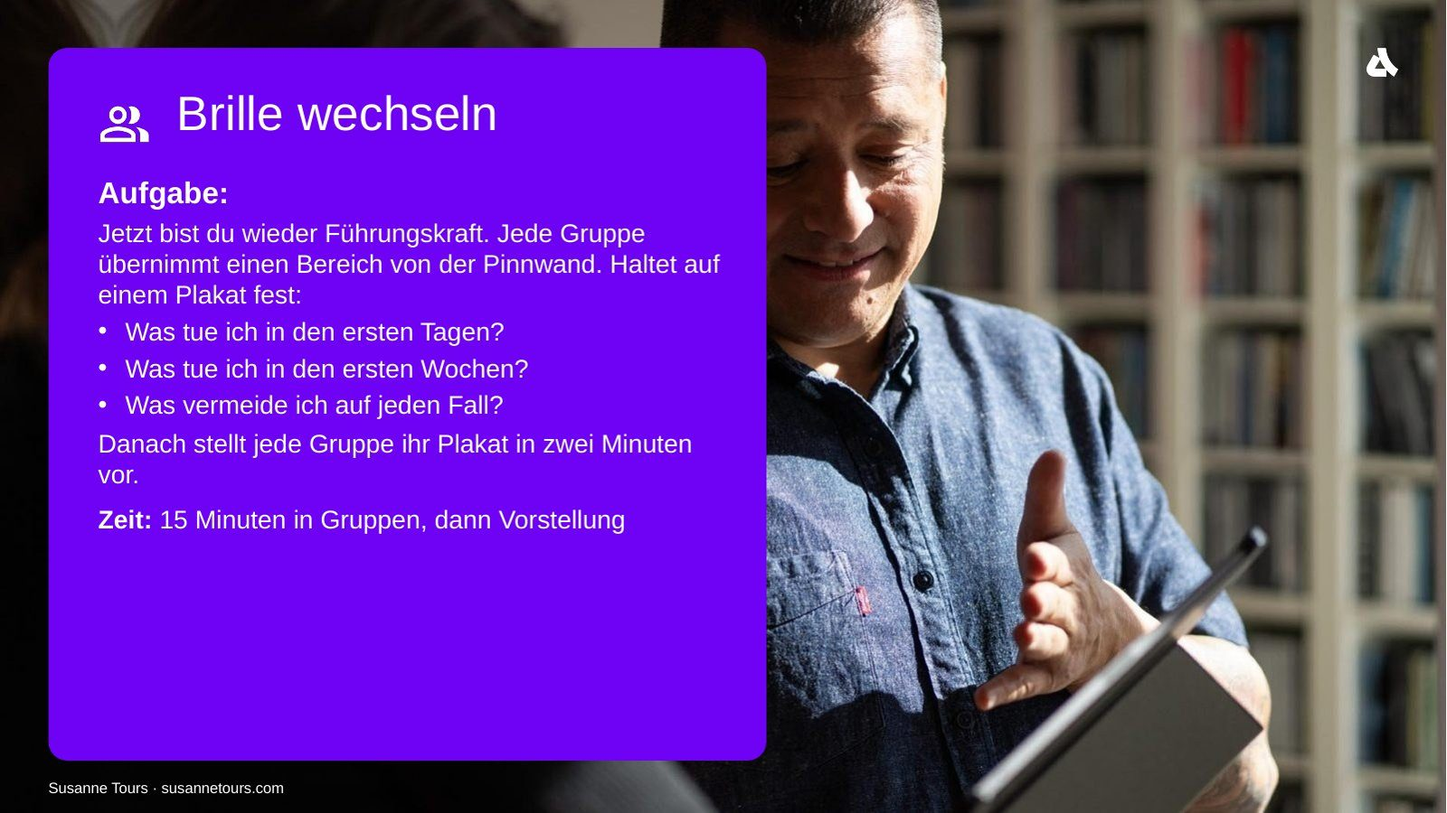
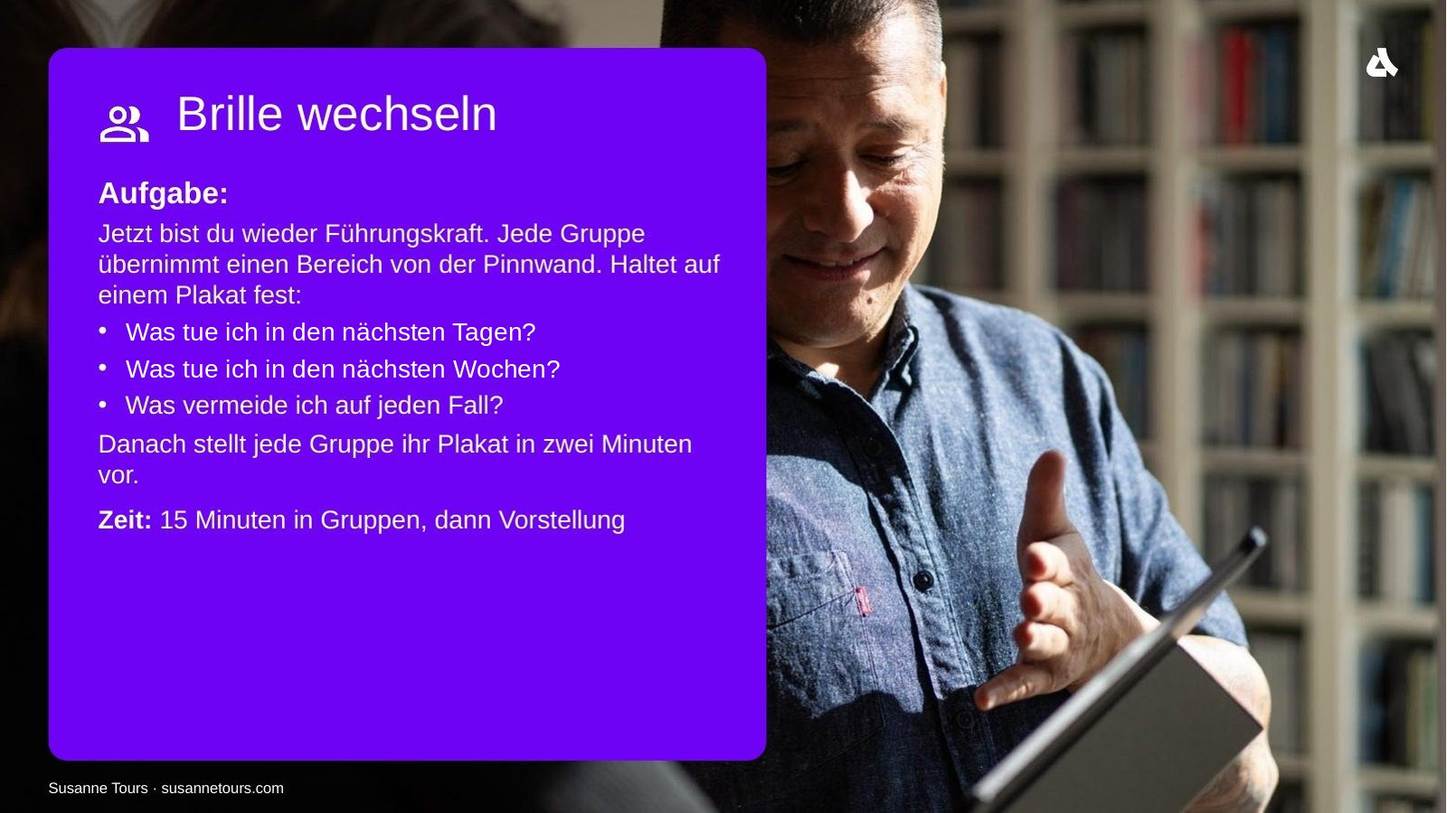
Ansprache für gemischte Gruppe: Startseite, Texte und Folien auch für erfahrene Führungskräfte; QR-Code auf Abschlussfolie zeigt auf Biebesheim

Changed region(s): [[0.0938, 0.3733, 0.4062, 0.4667]]

diff --git a/index.html b/index.html
@@ -333,7 +333,7 @@ details.more .b{padding:0 20px 16px}
   <div class="hero" style="background-image:url('bilder/start.jpg');--img:url('bilder/start.jpg')"><div class="in">
     <span class="eyebrow">Für die Gemeinde Biebesheim am Rhein</span>
     <h1>Das erste Mal führen 1</h1>
-    <p>Seit der neuen Struktur leitest du ein Team. Hier findest du alles aus unseren zwei Tagen zum Nachlesen: wie du Aufgaben klar verteilst, auch zusätzliche, was du tust, wenn jemand keine Lust darauf hat, und Sätze für die Gespräche, die dabei auf dich zukommen.</p>
+    <p>Manche von euch führen seit Jahren, andere sind gerade neu in der Rolle. Mit der neuen Struktur stellen sich für alle ähnliche Fragen. Hier findest du alles aus unseren zwei Tagen zum Nachlesen: wie du Aufgaben klar verteilst, auch zusätzliche, was du tust, wenn jemand keine Lust darauf hat, und Sätze für die Gespräche, die dabei auf dich zukommen.</p>
     <div class="acts"><a class="btn light" href="#folien">▶ Folien öffnen</a><a class="btn ghostw" href="#ablauf">◷ Unser Ablauf</a></div>
   </div></div>
 
@@ -489,9 +489,9 @@ details.more .b{padding:0 20px 16px}
     <div class="card lav"><span class="eyebrow">Die Zukunft</span><ul class="clean"><li>Was hat er mit dem Team vor?</li><li>Wird umstrukturiert?</li><li>Habe ich hier noch eine Perspektive?</li></ul></div>
   </div>
   <div class="card dk"><span class="eyebrow">Die Erkenntnis</span><h3>Sicherheit entsteht durch Klarheit</h3><p>Viele dieser Fragen kannst du beantworten, bevor sie jemand stellt. Je früher du das tust, desto schneller kommt dein Team durch die Kurve. Deshalb ist der nächste Schritt so wichtig: Erwartungen klären.</p></div>
-  <div class="task"><span class="eyebrow">Aus dem Training</span><b>Was muss ich jetzt als Führungskraft tun?</b><p style="margin:4px 0 0">Ihr habt in Gruppen gesammelt, was euch als Mitarbeitende beschäftigen würde. Dann habt ihr die Brille gewechselt: Was folgt daraus für mein Handeln als Führungskraft, in den ersten Tagen und Wochen?</p></div>
+  <div class="task"><span class="eyebrow">Aus dem Training</span><b>Was muss ich jetzt als Führungskraft tun?</b><p style="margin:4px 0 0">Ihr habt in Gruppen gesammelt, was euch als Mitarbeitende beschäftigen würde. Dann habt ihr die Brille gewechselt: Was folgt daraus für mein Handeln als Führungskraft, in den nächsten Tagen und Wochen?</p></div>
   <h3 class="sec">Wenn du aus dem eigenen Team kommst</h3>
-  <div class="card"><p>Gestern Kollegin, heute Chefin. Das ist für beide Seiten neu. Ein paar Gedanken, die helfen:</p><ul class="clean"><li><b>Sprich die neue Rolle offen an.</b> Das Team weiß, dass sich etwas verändert hat. Schweigen macht es nicht leichter.</li><li><b>Hol die Menschen herein, statt sie bloßzustellen.</b> Wer dir früher vom Chef erzählt hat, fühlt sich vielleicht unsicher. Gib allen einen neuen Start.</li><li><b>Freundschaft und Führung schließen sich nicht aus.</b> Aber manche Gespräche führst du jetzt in einer anderen Rolle. Sag dazu, in welcher.</li></ul></div>
+  <div class="card"><p>Gestern Kollegin, heute Chefin. Oder: lange vertrautes Team, jetzt neue Struktur. Beides ist für alle Seiten neu. Ein paar Gedanken, die helfen:</p><ul class="clean"><li><b>Sprich die neue Rolle offen an.</b> Das Team weiß, dass sich etwas verändert hat. Schweigen macht es nicht leichter.</li><li><b>Hol die Menschen herein, statt sie bloßzustellen.</b> Wer dir früher vom Chef erzählt hat, fühlt sich vielleicht unsicher. Gib allen einen neuen Start.</li><li><b>Freundschaft und Führung schließen sich nicht aus.</b> Aber manche Gespräche führst du jetzt in einer anderen Rolle. Sag dazu, in welcher.</li></ul></div>
   <a class="btn ghost" href="#startplan?step=3">✎ Im Startplan festhalten</a>
   <div class="unsere-fotos" data-ort="perspektive"></div>
   <div style="height:20px"></div>
@@ -499,7 +499,7 @@ details.more .b{padding:0 20px 16px}
 
 <!-- 3 ERWARTUNGEN -->
 <section class="page" id="p-erwartungen">
-  <div class="hero" style="background-image:url('bilder/erwartungen.jpg');--img:url('bilder/erwartungen.jpg')"><div class="in"><span class="eyebrow">Tag 1 · Modul 4</span><h2>Erwartungen klären</h2><p>Viele Konflikte im ersten Führungsjahr entstehen nicht aus bösem Willen, sondern aus unausgesprochenen Erwartungen.</p></div></div>
+  <div class="hero" style="background-image:url('bilder/erwartungen.jpg');--img:url('bilder/erwartungen.jpg')"><div class="in"><span class="eyebrow">Tag 1 · Modul 4</span><h2>Erwartungen klären</h2><p>Viele Konflikte in der Führung entstehen nicht aus bösem Willen, sondern aus unausgesprochenen Erwartungen.</p></div></div>
   <div class="card"><h3>Worum es geht</h3><p>Dein Team hat Erwartungen an dich. Du hast Erwartungen an dein Team. Und deine eigene Führungskraft hat Erwartungen an euch beide. Solange niemand sie ausspricht, rät jeder. Kläre sie früh, am besten in einem eigenen Gespräch.</p></div>
   <h3 class="sec">Drei Richtungen</h3>
   <div class="grid3">
@@ -635,7 +635,7 @@ details.more .b{padding:0 20px 16px}
       <div><b>Ich bin nicht okay, du bist nicht okay</b>Resignation. Es hat alles keinen Sinn.</div>
       <div><b>Ich bin okay, du bist nicht okay</b>Ich weiß es besser. Überheblich, abwertend.</div>
     </div></div>
-    <div class="card lav"><h3>Gerade am Anfang wichtig</h3><p>Neue Führungskräfte rutschen leicht in zwei Ecken: Aus Unsicherheit machen sie sich klein. Oder sie wollen Stärke zeigen und werden von oben herab. Beides kostet Vertrauen. Augenhöhe heißt: Ich nehme meine Rolle ernst, und ich nehme dich ernst.</p></div>
+    <div class="card lav"><h3>Gerade in Veränderungen wichtig</h3><p>Führungskräfte rutschen unter Druck leicht in zwei Ecken: Aus Unsicherheit machen sie sich klein. Oder sie wollen Stärke zeigen und werden von oben herab. Beides kostet Vertrauen. Augenhöhe heißt: Ich nehme meine Rolle ernst, und ich nehme dich ernst.</p></div>
   </div>
   <div class="sub" id="sub-einladen">
     <p class="lead">Du kannst niemanden verändern. Du kannst einladen, etwas Neues zu erleben.</p>
@@ -731,7 +731,7 @@ details.more .b{padding:0 20px 16px}
       <div class="card lav"><span class="eyebrow">Feedback holen</span><h3>Der blinde Fleck wird kleiner</h3><p>Frag gezielt nach, wie du wirkst. Und hör zu, ohne dich zu rechtfertigen.</p></div>
       <div class="card lav"><span class="eyebrow">Offenheit zeigen</span><h3>Das Private wird kleiner</h3><p>Sag, was dir wichtig ist und wie du arbeitest. Dann muss dein Team weniger raten.</p></div>
     </div>
-    <div class="card dk"><span class="eyebrow">Gerade als neue Führungskraft</span><p style="margin-top:6px">Je höher die Rolle, desto weniger ehrliche Rückmeldung bekommst du von allein. Wer Feedback will, muss danach fragen. Und zeigen, dass es sicher ist, ehrlich zu sein.</p></div>
+    <div class="card dk"><span class="eyebrow">Für alle, die führen</span><p style="margin-top:6px">Je höher die Rolle, desto weniger ehrliche Rückmeldung bekommst du von allein. Wer Feedback will, muss danach fragen. Und zeigen, dass es sicher ist, ehrlich zu sein.</p></div>
     <h3 class="sec">Fragen, die Feedback öffnen</h3>
     <div class="card"><ul class="clean"><li>Was sollte ich an meiner Art zu führen beibehalten?</li><li>Was sollte ich weniger tun?</li><li>Wie komme ich rüber, wenn es stressig wird?</li><li>Was würdest du dir von mir wünschen?</li></ul></div>
     <div class="task"><span class="eyebrow">Aus dem Training</span><b>Dein blinder Fleck</b><p style="margin:4px 0 0">Du hast notiert, wie du als Führungskraft wirken möchtest, und dein Gegenüber gefragt, wie es dich in den zwei Tagen erlebt hat. Was hat dich überrascht? Und wen in deinem Team fragst du als Erstes?</p></div>
@@ -784,7 +784,7 @@ details.more .b{padding:0 20px 16px}
   <details class="more"><summary>Er arbeitet zu schnell und sagt nur „Ja, ja, alles in Ordnung“</summary><div class="b"><p><b>Ich weiß,</b> dass du deine Aufgaben schnell erledigst, und das schätze ich auch.</p><p><b>Mir ist wichtig,</b> dass die Ergebnisse auch beim ersten Mal stimmen. Beim letzten Bericht mussten wir zwei Stellen nacharbeiten.</p><p style="margin:0"><b>Ich bin offen</b> dafür, wie wir das hinbekommen. Was bräuchtest du, damit du am Ende noch kurz drüberschauen kannst?</p></div></details>
   <details class="more"><summary>Jemand kommt regelmäßig zu spät ins Teammeeting</summary><div class="b"><p><b>Ich weiß,</b> dass morgens bei dir oft schon viel los ist.</p><p><b>Mir ist wichtig,</b> dass wir pünktlich starten können, weil sonst alle warten.</p><p style="margin:0"><b>Ich bin offen</b> für einen Vorschlag. Würde ein anderer Termin besser passen?</p></div></details>
   <details class="more"><summary>Eine erfahrene Kollegin blockt Neues ab: „Das haben wir immer so gemacht“</summary><div class="b"><p><b>Ich weiß,</b> dass du viel Erfahrung hast und der alte Weg lange gut funktioniert hat.</p><p><b>Mir ist wichtig,</b> dass wir das neue System gemeinsam zum Laufen bringen.</p><p style="margin:0"><b>Ich bin offen</b> für deine Erfahrung. Was müssen wir beachten, damit es klappt?</p></div></details>
-  <details class="more"><summary>Jemand im Team nimmt dich als neue Führungskraft nicht ernst</summary><div class="b"><p><b>Ich weiß,</b> dass es für uns beide ungewohnt ist, dass ich jetzt deine Führungskraft bin.</p><p><b>Mir ist wichtig,</b> dass wir trotzdem gut zusammenarbeiten und Absprachen eingehalten werden.</p><p style="margin:0"><b>Ich bin offen</b> dafür, wie wir das gestalten. Was wünschst du dir von mir?</p></div></details>
+  <details class="more"><summary>Jemand im Team nimmt dich in deiner Rolle nicht ernst</summary><div class="b"><p><b>Ich weiß,</b> dass die neue Situation für uns beide ungewohnt ist.</p><p><b>Mir ist wichtig,</b> dass wir trotzdem gut zusammenarbeiten und Absprachen eingehalten werden.</p><p style="margin:0"><b>Ich bin offen</b> dafür, wie wir das gestalten. Was wünschst du dir von mir?</p></div></details>
   <details class="more"><summary>Jemand meldet sich nicht, wenn es Probleme gibt</summary><div class="b"><p><b>Ich weiß,</b> dass du vieles lieber selbst löst.</p><p><b>Mir ist wichtig,</b> dass ich früh Bescheid weiß, wenn eine Frist wackelt, damit ich noch reagieren kann.</p><p style="margin:0"><b>Ich bin offen</b> für eine Lösung. Wie wäre ein kurzer Check-in jeden Montag?</p></div></details>
   <details class="more"><summary>Ein Mitarbeiter ist im Team oft gereizt und laut</summary><div class="b"><p><b>Ich weiß,</b> dass gerade viel auf dir lastet.</p><p><b>Mir ist wichtig,</b> dass wir im Team respektvoll miteinander sprechen, auch unter Druck.</p><p style="margin:0"><b>Ich bin offen</b> zu hören, was dich gerade belastet. Was würde dir helfen?</p></div></details>
   <details class="more"><summary>Jemand übernimmt keine Verantwortung für Fehler: „Das war nicht ich“</summary><div class="b"><p><b>Ich weiß,</b> dass Fehler unangenehm sind und niemand gern daran schuld ist.</p><p><b>Mir ist wichtig,</b> dass wir aus Fehlern lernen, nicht dass wir einen Schuldigen finden.</p><p style="margin:0"><b>Ich bin offen</b> für deine Sicht. Was ist aus deiner Sicht schiefgelaufen?</p></div></details>
@@ -832,7 +832,7 @@ details.more .b{padding:0 20px 16px}
   <div class="hero" style="background-image:url('bilder/druck.jpg');--img:url('bilder/druck.jpg')"><div class="in"><span class="eyebrow">Zusatzthema 17</span><h2>Unter Druck führen</h2><p>Wenn alles gleichzeitig wichtig scheint: wie du Prioritäten setzt und deine Kraft dort einsetzt, wo sie wirkt.</p></div></div>
   <div class="subnav" id="drnav"><button data-sub="einfluss" class="on">Einflusskreis</button><button data-sub="prio">Prioritäten</button><button data-sub="nein">Nein sagen</button><button data-sub="kraft">Kraft tanken</button></div>
   <div class="sub show" id="sub-einfluss">
-    <div class="card"><h3>Stress entsteht im Kopf und im Kalender</h3><p>Stress entsteht, wenn die Anforderungen größer wirken als das, was wir zur Verfügung haben: Zeit, Wissen, Unterstützung. Gerade in der neuen Rolle kommt vieles auf einmal. Zwei Fragen helfen, wieder Boden unter die Füße zu bekommen.</p></div>
+    <div class="card"><h3>Stress entsteht im Kopf und im Kalender</h3><p>Stress entsteht, wenn die Anforderungen größer wirken als das, was wir zur Verfügung haben: Zeit, Wissen, Unterstützung. Gerade in Veränderungen kommt vieles auf einmal. Zwei Fragen helfen, wieder Boden unter die Füße zu bekommen.</p></div>
     <div class="grid2">
       <div class="card"><span class="eyebrow">Außen</span><h3>Sorgenkreis</h3><p>Was mich beschäftigt, ich aber nicht ändern kann: Entscheidungen von oben, die Marktlage, das Verhalten anderer.</p></div>
       <div class="card lav"><span class="eyebrow">Innen</span><h3>Einflusskreis</h3><p>Was ich selbst bewegen kann: wie ich informiere, wie ich priorisiere, wie ich reagiere.</p></div>
@@ -847,7 +847,7 @@ details.more .b{padding:0 20px 16px}
         <div class="qd"><b>Abgeben</b>Unterbrechungen, vieles in Mails.</div>
         <div style="background:#F4F1F8"><b style="color:var(--dark)">Lassen</b>Was niemand vermissen würde.</div>
       </div><div></div><div class="ax-x">dringend ← → nicht dringend</div></div></div>
-    <div class="card lav"><h3>Die Falle für neue Führungskräfte</h3><p>Wer neu führt, steckt oft im Feld „Sofort“ und macht nebenbei noch die alte Fachaufgabe. Führung passiert aber im Feld „Planen“. Blocke dir dafür feste Zeit im Kalender, zum Beispiel für Einzelgespräche.</p></div>
+    <div class="card lav"><h3>Die Falle im Führungsalltag</h3><p>Viele Führungskräfte stecken im Feld „Sofort“ und machen nebenbei noch Fachaufgaben. Führung passiert aber im Feld „Planen“. Blocke dir dafür feste Zeit im Kalender, zum Beispiel für Einzelgespräche.</p></div>
     <div class="card"><h3>Meine Entscheidung</h3>
       <label class="l">Das lasse ich ab morgen:</label><input type="text" data-save="druck.lassen">
       <label class="l">Das gebe ich ab, an:</label><input type="text" data-save="druck.abgeben">
@@ -879,7 +879,7 @@ details.more .b{padding:0 20px 16px}
 <!-- STARTPLAN -->
 <!-- NEU ROLLENWECHSEL -->
 <section class="page" id="p-rollenwechsel">
-  <div class="hero" style="background-image:url('bilder/ablauf.jpg');--img:url('bilder/ablauf.jpg')"><div class="in"><span class="eyebrow">Tag 1 · Modul 3</span><h2>Der Rollenwechsel</h2><p>Die Menschen um dich herum sind oft dieselben. Deine Rolle ist neu.</p></div></div>
+  <div class="hero" style="background-image:url('bilder/ablauf.jpg');--img:url('bilder/ablauf.jpg')"><div class="in"><span class="eyebrow">Tag 1 · Modul 3</span><h2>Der Rollenwechsel</h2><p>Die Menschen um dich herum sind oft dieselben. Deine Rolle ist neu, oder sie verändert sich mit der neuen Struktur.</p></div></div>
   <div class="card"><h3>Worum es geht</h3><p>Mit dem neuen Vertrag ändert sich deine Rolle sofort. Die Beziehungen im Team ändern sich langsamer. Genau in dieser Lücke entstehen die meisten Unsicherheiten, bei dir und bei deinem Team.</p></div>
   <h3 class="sec">Was sich ändert</h3>
   <div class="grid3">
@@ -946,7 +946,7 @@ details.more .b{padding:0 20px 16px}
 <!-- NEU INNERE HALTUNG -->
 <section class="page" id="p-haltung">
   <div class="hero" style="background-image:url('bilder/kurve.jpg');--img:url('bilder/kurve.jpg')"><div class="in"><span class="eyebrow">Tag 2 · Modul 11</span><h2>Innere Haltung</h2><p>Selbstklärung vor Fremdklärung. Bevor du ein schwieriges Gespräch führst, lohnt der Blick nach innen.</p></div></div>
-  <div class="card dk"><p class="quote" style="color:#fff">„Verständnis haben heißt nicht, einverstanden zu sein.“</p><p style="color:#EDE5FA">Gerade neue Führungskräfte befürchten, durch Zuhören weich zu wirken. Das Gegenteil ist der Fall: Wer versteht, kann klarer entscheiden.</p></div>
+  <div class="card dk"><p class="quote" style="color:#fff">„Verständnis haben heißt nicht, einverstanden zu sein.“</p><p style="color:#EDE5FA">Viele Führungskräfte befürchten, durch Zuhören weich zu wirken. Das Gegenteil ist der Fall: Wer versteht, kann klarer entscheiden.</p></div>
   <h3 class="sec">Gefühle sind Informationen</h3>
   <div class="card"><p>Welche Gefühle sind bei dir im Spiel? Sie zeigen, was dir wichtig ist.</p>
     <ul class="clean"><li><b>Wut:</b> verletzte Werte und Grenzen</li><li><b>Angst:</b> Bedürfnis nach Sicherheit</li><li><b>Trauer:</b> Enttäuschung, etwas loslassen müssen</li><li><b>Scham:</b> Selbstwert und Zugehörigkeit</li><li><b>Freude:</b> was dich lebendig macht, eine Kraftquelle</li></ul></div>
@@ -1020,7 +1020,7 @@ details.more .b{padding:0 20px 16px}
 
 <!-- DANACH -->
 <section class="page" id="p-danach">
-  <div class="hero" style="background-image:url('bilder/danach.jpg');--img:url('bilder/danach.jpg')"><div class="in"><span class="eyebrow">Für dich</span><h2>Nach dem Training</h2><p>Deine ersten 30 Tage. Hake ab, was du erledigt hast.</p></div></div>
+  <div class="hero" style="background-image:url('bilder/danach.jpg');--img:url('bilder/danach.jpg')"><div class="in"><span class="eyebrow">Für dich</span><h2>Nach dem Training</h2><p>Deine nächsten 30 Tage. Hake ab, was du erledigt hast.</p></div></div>
   <div class="card" id="checklist"></div>
   <div class="card lav"><h3>Du musst nicht alles sofort können</h3><p>Führung lernst du in der Praxis, nicht im Seminar. Nimm dir jede Woche einen Punkt vor. Und sprich mit deiner Führungskraft oder mit jemandem aus dieser Gruppe, wenn du nicht weiterkommst.</p></div>
   <div class="card"><div class="trainer"><img src="bilder/susanne.jpg" alt="Susanne Tours"><div><b>Fragen oder ein Anliegen?</b><br><span style="color:var(--ink-soft);font-size:14.5px">Schreib mir gern über meine Website.</span><br><a href="https://susannetours.com" target="_blank" rel="noopener" style="font-size:14.5px;font-weight:700">susannetours.com</a></div></div></div>
@@ -1292,7 +1292,7 @@ $('#sentences').addEventListener('click',e=>{ const b=e.target.closest('[data-co
 /* ---------- Nach dem Training ---------- */
 const WEEKS=[["e1","Woche 1","Mit deiner eigenen Führungskraft klären: Ziele, Spielraum, Entscheidungen."],["e2","Woche 1","Die Alltagsfragen deines Teams beantworten: Urlaub, Homeoffice, Erreichbarkeit."],["e3","Woche 2","Erwartungsgespräche führen, im Team oder einzeln."],["e4","Woche 2","Deinen Führungskorridor im Team vorstellen."],["e5","Woche 3","Regelmäßige Einzelgespräche einplanen und das erste führen."],["e6","Woche 3","Das aufgeschobene Gespräch führen, mit deinem Gesprächsplan."],["e7","Woche 4","Deine Matrix noch einmal anschauen: Wer hat sich bewegt?"],["e8","Woche 4","Deinem Transfer-Buddy schreiben: Was hat geklappt, was nicht?"]];
 const wk = S.weeks || (S.weeks = {});
-$('#checklist').innerHTML = `<h3>Deine ersten 30 Tage</h3>` + WEEKS.map(([k,w,t])=>`<label class="check"><input type="checkbox" data-week="${k}" ${wk[k]?'checked':''}><span><b>${w}:</b> ${t}</span></label>`).join('');
+$('#checklist').innerHTML = `<h3>Deine nächsten 30 Tage</h3>` + WEEKS.map(([k,w,t])=>`<label class="check"><input type="checkbox" data-week="${k}" ${wk[k]?'checked':''}><span><b>${w}:</b> ${t}</span></label>`).join('');
 $('#checklist').querySelectorAll('[data-week]').forEach(c=>c.addEventListener('change',()=>{ wk[c.dataset.week]=c.checked; save(); }));
 
 /* ---------- Folien ---------- */

diff --git a/src/body.html b/src/body.html
@@ -44,7 +44,7 @@
   <div class="hero" style="background-image:url('bilder/start.jpg');--img:url('bilder/start.jpg')"><div class="in">
     <span class="eyebrow">Für die Gemeinde Biebesheim am Rhein</span>
     <h1>Das erste Mal führen 1</h1>
-    <p>Seit der neuen Struktur leitest du ein Team. Hier findest du alles aus unseren zwei Tagen zum Nachlesen: wie du Aufgaben klar verteilst, auch zusätzliche, was du tust, wenn jemand keine Lust darauf hat, und Sätze für die Gespräche, die dabei auf dich zukommen.</p>
+    <p>Manche von euch führen seit Jahren, andere sind gerade neu in der Rolle. Mit der neuen Struktur stellen sich für alle ähnliche Fragen. Hier findest du alles aus unseren zwei Tagen zum Nachlesen: wie du Aufgaben klar verteilst, auch zusätzliche, was du tust, wenn jemand keine Lust darauf hat, und Sätze für die Gespräche, die dabei auf dich zukommen.</p>
     <div class="acts"><a class="btn light" href="#folien">▶ Folien öffnen</a><a class="btn ghostw" href="#ablauf">◷ Unser Ablauf</a></div>
   </div></div>
 
@@ -200,9 +200,9 @@
     <div class="card lav"><span class="eyebrow">Die Zukunft</span><ul class="clean"><li>Was hat er mit dem Team vor?</li><li>Wird umstrukturiert?</li><li>Habe ich hier noch eine Perspektive?</li></ul></div>
   </div>
   <div class="card dk"><span class="eyebrow">Die Erkenntnis</span><h3>Sicherheit entsteht durch Klarheit</h3><p>Viele dieser Fragen kannst du beantworten, bevor sie jemand stellt. Je früher du das tust, desto schneller kommt dein Team durch die Kurve. Deshalb ist der nächste Schritt so wichtig: Erwartungen klären.</p></div>
-  <div class="task"><span class="eyebrow">Aus dem Training</span><b>Was muss ich jetzt als Führungskraft tun?</b><p style="margin:4px 0 0">Ihr habt in Gruppen gesammelt, was euch als Mitarbeitende beschäftigen würde. Dann habt ihr die Brille gewechselt: Was folgt daraus für mein Handeln als Führungskraft, in den ersten Tagen und Wochen?</p></div>
+  <div class="task"><span class="eyebrow">Aus dem Training</span><b>Was muss ich jetzt als Führungskraft tun?</b><p style="margin:4px 0 0">Ihr habt in Gruppen gesammelt, was euch als Mitarbeitende beschäftigen würde. Dann habt ihr die Brille gewechselt: Was folgt daraus für mein Handeln als Führungskraft, in den nächsten Tagen und Wochen?</p></div>
   <h3 class="sec">Wenn du aus dem eigenen Team kommst</h3>
-  <div class="card"><p>Gestern Kollegin, heute Chefin. Das ist für beide Seiten neu. Ein paar Gedanken, die helfen:</p><ul class="clean"><li><b>Sprich die neue Rolle offen an.</b> Das Team weiß, dass sich etwas verändert hat. Schweigen macht es nicht leichter.</li><li><b>Hol die Menschen herein, statt sie bloßzustellen.</b> Wer dir früher vom Chef erzählt hat, fühlt sich vielleicht unsicher. Gib allen einen neuen Start.</li><li><b>Freundschaft und Führung schließen sich nicht aus.</b> Aber manche Gespräche führst du jetzt in einer anderen Rolle. Sag dazu, in welcher.</li></ul></div>
+  <div class="card"><p>Gestern Kollegin, heute Chefin. Oder: lange vertrautes Team, jetzt neue Struktur. Beides ist für alle Seiten neu. Ein paar Gedanken, die helfen:</p><ul class="clean"><li><b>Sprich die neue Rolle offen an.</b> Das Team weiß, dass sich etwas verändert hat. Schweigen macht es nicht leichter.</li><li><b>Hol die Menschen herein, statt sie bloßzustellen.</b> Wer dir früher vom Chef erzählt hat, fühlt sich vielleicht unsicher. Gib allen einen neuen Start.</li><li><b>Freundschaft und Führung schließen sich nicht aus.</b> Aber manche Gespräche führst du jetzt in einer anderen Rolle. Sag dazu, in welcher.</li></ul></div>
   <a class="btn ghost" href="#startplan?step=3">✎ Im Startplan festhalten</a>
   <div class="unsere-fotos" data-ort="perspektive"></div>
   <div style="height:20px"></div>
@@ -210,7 +210,7 @@
 
 <!-- 3 ERWARTUNGEN -->
 <section class="page" id="p-erwartungen">
-  <div class="hero" style="background-image:url('bilder/erwartungen.jpg');--img:url('bilder/erwartungen.jpg')"><div class="in"><span class="eyebrow">Tag 1 · Modul 4</span><h2>Erwartungen klären</h2><p>Viele Konflikte im ersten Führungsjahr entstehen nicht aus bösem Willen, sondern aus unausgesprochenen Erwartungen.</p></div></div>
+  <div class="hero" style="background-image:url('bilder/erwartungen.jpg');--img:url('bilder/erwartungen.jpg')"><div class="in"><span class="eyebrow">Tag 1 · Modul 4</span><h2>Erwartungen klären</h2><p>Viele Konflikte in der Führung entstehen nicht aus bösem Willen, sondern aus unausgesprochenen Erwartungen.</p></div></div>
   <div class="card"><h3>Worum es geht</h3><p>Dein Team hat Erwartungen an dich. Du hast Erwartungen an dein Team. Und deine eigene Führungskraft hat Erwartungen an euch beide. Solange niemand sie ausspricht, rät jeder. Kläre sie früh, am besten in einem eigenen Gespräch.</p></div>
   <h3 class="sec">Drei Richtungen</h3>
   <div class="grid3">
@@ -346,7 +346,7 @@
       <div><b>Ich bin nicht okay, du bist nicht okay</b>Resignation. Es hat alles keinen Sinn.</div>
       <div><b>Ich bin okay, du bist nicht okay</b>Ich weiß es besser. Überheblich, abwertend.</div>
     </div></div>
-    <div class="card lav"><h3>Gerade am Anfang wichtig</h3><p>Neue Führungskräfte rutschen leicht in zwei Ecken: Aus Unsicherheit machen sie sich klein. Oder sie wollen Stärke zeigen und werden von oben herab. Beides kostet Vertrauen. Augenhöhe heißt: Ich nehme meine Rolle ernst, und ich nehme dich ernst.</p></div>
+    <div class="card lav"><h3>Gerade in Veränderungen wichtig</h3><p>Führungskräfte rutschen unter Druck leicht in zwei Ecken: Aus Unsicherheit machen sie sich klein. Oder sie wollen Stärke zeigen und werden von oben herab. Beides kostet Vertrauen. Augenhöhe heißt: Ich nehme meine Rolle ernst, und ich nehme dich ernst.</p></div>
   </div>
   <div class="sub" id="sub-einladen">
     <p class="lead">Du kannst niemanden verändern. Du kannst einladen, etwas Neues zu erleben.</p>
@@ -442,7 +442,7 @@
       <div class="card lav"><span class="eyebrow">Feedback holen</span><h3>Der blinde Fleck wird kleiner</h3><p>Frag gezielt nach, wie du wirkst. Und hör zu, ohne dich zu rechtfertigen.</p></div>
       <div class="card lav"><span class="eyebrow">Offenheit zeigen</span><h3>Das Private wird kleiner</h3><p>Sag, was dir wichtig ist und wie du arbeitest. Dann muss dein Team weniger raten.</p></div>
     </div>
-    <div class="card dk"><span class="eyebrow">Gerade als neue Führungskraft</span><p style="margin-top:6px">Je höher die Rolle, desto weniger ehrliche Rückmeldung bekommst du von allein. Wer Feedback will, muss danach fragen. Und zeigen, dass es sicher ist, ehrlich zu sein.</p></div>
+    <div class="card dk"><span class="eyebrow">Für alle, die führen</span><p style="margin-top:6px">Je höher die Rolle, desto weniger ehrliche Rückmeldung bekommst du von allein. Wer Feedback will, muss danach fragen. Und zeigen, dass es sicher ist, ehrlich zu sein.</p></div>
     <h3 class="sec">Fragen, die Feedback öffnen</h3>
     <div class="card"><ul class="clean"><li>Was sollte ich an meiner Art zu führen beibehalten?</li><li>Was sollte ich weniger tun?</li><li>Wie komme ich rüber, wenn es stressig wird?</li><li>Was würdest du dir von mir wünschen?</li></ul></div>
     <div class="task"><span class="eyebrow">Aus dem Training</span><b>Dein blinder Fleck</b><p style="margin:4px 0 0">Du hast notiert, wie du als Führungskraft wirken möchtest, und dein Gegenüber gefragt, wie es dich in den zwei Tagen erlebt hat. Was hat dich überrascht? Und wen in deinem Team fragst du als Erstes?</p></div>
@@ -495,7 +495,7 @@
   <details class="more"><summary>Er arbeitet zu schnell und sagt nur „Ja, ja, alles in Ordnung“</summary><div class="b"><p><b>Ich weiß,</b> dass du deine Aufgaben schnell erledigst, und das schätze ich auch.</p><p><b>Mir ist wichtig,</b> dass die Ergebnisse auch beim ersten Mal stimmen. Beim letzten Bericht mussten wir zwei Stellen nacharbeiten.</p><p style="margin:0"><b>Ich bin offen</b> dafür, wie wir das hinbekommen. Was bräuchtest du, damit du am Ende noch kurz drüberschauen kannst?</p></div></details>
   <details class="more"><summary>Jemand kommt regelmäßig zu spät ins Teammeeting</summary><div class="b"><p><b>Ich weiß,</b> dass morgens bei dir oft schon viel los ist.</p><p><b>Mir ist wichtig,</b> dass wir pünktlich starten können, weil sonst alle warten.</p><p style="margin:0"><b>Ich bin offen</b> für einen Vorschlag. Würde ein anderer Termin besser passen?</p></div></details>
   <details class="more"><summary>Eine erfahrene Kollegin blockt Neues ab: „Das haben wir immer so gemacht“</summary><div class="b"><p><b>Ich weiß,</b> dass du viel Erfahrung hast und der alte Weg lange gut funktioniert hat.</p><p><b>Mir ist wichtig,</b> dass wir das neue System gemeinsam zum Laufen bringen.</p><p style="margin:0"><b>Ich bin offen</b> für deine Erfahrung. Was müssen wir beachten, damit es klappt?</p></div></details>
-  <details class="more"><summary>Jemand im Team nimmt dich als neue Führungskraft nicht ernst</summary><div class="b"><p><b>Ich weiß,</b> dass es für uns beide ungewohnt ist, dass ich jetzt deine Führungskraft bin.</p><p><b>Mir ist wichtig,</b> dass wir trotzdem gut zusammenarbeiten und Absprachen eingehalten werden.</p><p style="margin:0"><b>Ich bin offen</b> dafür, wie wir das gestalten. Was wünschst du dir von mir?</p></div></details>
+  <details class="more"><summary>Jemand im Team nimmt dich in deiner Rolle nicht ernst</summary><div class="b"><p><b>Ich weiß,</b> dass die neue Situation für uns beide ungewohnt ist.</p><p><b>Mir ist wichtig,</b> dass wir trotzdem gut zusammenarbeiten und Absprachen eingehalten werden.</p><p style="margin:0"><b>Ich bin offen</b> dafür, wie wir das gestalten. Was wünschst du dir von mir?</p></div></details>
   <details class="more"><summary>Jemand meldet sich nicht, wenn es Probleme gibt</summary><div class="b"><p><b>Ich weiß,</b> dass du vieles lieber selbst löst.</p><p><b>Mir ist wichtig,</b> dass ich früh Bescheid weiß, wenn eine Frist wackelt, damit ich noch reagieren kann.</p><p style="margin:0"><b>Ich bin offen</b> für eine Lösung. Wie wäre ein kurzer Check-in jeden Montag?</p></div></details>
   <details class="more"><summary>Ein Mitarbeiter ist im Team oft gereizt und laut</summary><div class="b"><p><b>Ich weiß,</b> dass gerade viel auf dir lastet.</p><p><b>Mir ist wichtig,</b> dass wir im Team respektvoll miteinander sprechen, auch unter Druck.</p><p style="margin:0"><b>Ich bin offen</b> zu hören, was dich gerade belastet. Was würde dir helfen?</p></div></details>
   <details class="more"><summary>Jemand übernimmt keine Verantwortung für Fehler: „Das war nicht ich“</summary><div class="b"><p><b>Ich weiß,</b> dass Fehler unangenehm sind und niemand gern daran schuld ist.</p><p><b>Mir ist wichtig,</b> dass wir aus Fehlern lernen, nicht dass wir einen Schuldigen finden.</p><p style="margin:0"><b>Ich bin offen</b> für deine Sicht. Was ist aus deiner Sicht schiefgelaufen?</p></div></details>
@@ -543,7 +543,7 @@
   <div class="hero" style="background-image:url('bilder/druck.jpg');--img:url('bilder/druck.jpg')"><div class="in"><span class="eyebrow">Zusatzthema 17</span><h2>Unter Druck führen</h2><p>Wenn alles gleichzeitig wichtig scheint: wie du Prioritäten setzt und deine Kraft dort einsetzt, wo sie wirkt.</p></div></div>
   <div class="subnav" id="drnav"><button data-sub="einfluss" class="on">Einflusskreis</button><button data-sub="prio">Prioritäten</button><button data-sub="nein">Nein sagen</button><button data-sub="kraft">Kraft tanken</button></div>
   <div class="sub show" id="sub-einfluss">
-    <div class="card"><h3>Stress entsteht im Kopf und im Kalender</h3><p>Stress entsteht, wenn die Anforderungen größer wirken als das, was wir zur Verfügung haben: Zeit, Wissen, Unterstützung. Gerade in der neuen Rolle kommt vieles auf einmal. Zwei Fragen helfen, wieder Boden unter die Füße zu bekommen.</p></div>
+    <div class="card"><h3>Stress entsteht im Kopf und im Kalender</h3><p>Stress entsteht, wenn die Anforderungen größer wirken als das, was wir zur Verfügung haben: Zeit, Wissen, Unterstützung. Gerade in Veränderungen kommt vieles auf einmal. Zwei Fragen helfen, wieder Boden unter die Füße zu bekommen.</p></div>
     <div class="grid2">
       <div class="card"><span class="eyebrow">Außen</span><h3>Sorgenkreis</h3><p>Was mich beschäftigt, ich aber nicht ändern kann: Entscheidungen von oben, die Marktlage, das Verhalten anderer.</p></div>
       <div class="card lav"><span class="eyebrow">Innen</span><h3>Einflusskreis</h3><p>Was ich selbst bewegen kann: wie ich informiere, wie ich priorisiere, wie ich reagiere.</p></div>
@@ -558,7 +558,7 @@
         <div class="qd"><b>Abgeben</b>Unterbrechungen, vieles in Mails.</div>
         <div style="background:#F4F1F8"><b style="color:var(--dark)">Lassen</b>Was niemand vermissen würde.</div>
       </div><div></div><div class="ax-x">dringend ← → nicht dringend</div></div></div>
-    <div class="card lav"><h3>Die Falle für neue Führungskräfte</h3><p>Wer neu führt, steckt oft im Feld „Sofort“ und macht nebenbei noch die alte Fachaufgabe. Führung passiert aber im Feld „Planen“. Blocke dir dafür feste Zeit im Kalender, zum Beispiel für Einzelgespräche.</p></div>
+    <div class="card lav"><h3>Die Falle im Führungsalltag</h3><p>Viele Führungskräfte stecken im Feld „Sofort“ und machen nebenbei noch Fachaufgaben. Führung passiert aber im Feld „Planen“. Blocke dir dafür feste Zeit im Kalender, zum Beispiel für Einzelgespräche.</p></div>
     <div class="card"><h3>Meine Entscheidung</h3>
       <label class="l">Das lasse ich ab morgen:</label><input type="text" data-save="druck.lassen">
       <label class="l">Das gebe ich ab, an:</label><input type="text" data-save="druck.abgeben">
@@ -590,7 +590,7 @@
 <!-- STARTPLAN -->
 <!-- NEU ROLLENWECHSEL -->
 <section class="page" id="p-rollenwechsel">
-  <div class="hero" style="background-image:url('bilder/ablauf.jpg');--img:url('bilder/ablauf.jpg')"><div class="in"><span class="eyebrow">Tag 1 · Modul 3</span><h2>Der Rollenwechsel</h2><p>Die Menschen um dich herum sind oft dieselben. Deine Rolle ist neu.</p></div></div>
+  <div class="hero" style="background-image:url('bilder/ablauf.jpg');--img:url('bilder/ablauf.jpg')"><div class="in"><span class="eyebrow">Tag 1 · Modul 3</span><h2>Der Rollenwechsel</h2><p>Die Menschen um dich herum sind oft dieselben. Deine Rolle ist neu, oder sie verändert sich mit der neuen Struktur.</p></div></div>
   <div class="card"><h3>Worum es geht</h3><p>Mit dem neuen Vertrag ändert sich deine Rolle sofort. Die Beziehungen im Team ändern sich langsamer. Genau in dieser Lücke entstehen die meisten Unsicherheiten, bei dir und bei deinem Team.</p></div>
   <h3 class="sec">Was sich ändert</h3>
   <div class="grid3">
@@ -657,7 +657,7 @@
 <!-- NEU INNERE HALTUNG -->
 <section class="page" id="p-haltung">
   <div class="hero" style="background-image:url('bilder/kurve.jpg');--img:url('bilder/kurve.jpg')"><div class="in"><span class="eyebrow">Tag 2 · Modul 11</span><h2>Innere Haltung</h2><p>Selbstklärung vor Fremdklärung. Bevor du ein schwieriges Gespräch führst, lohnt der Blick nach innen.</p></div></div>
-  <div class="card dk"><p class="quote" style="color:#fff">„Verständnis haben heißt nicht, einverstanden zu sein.“</p><p style="color:#EDE5FA">Gerade neue Führungskräfte befürchten, durch Zuhören weich zu wirken. Das Gegenteil ist der Fall: Wer versteht, kann klarer entscheiden.</p></div>
+  <div class="card dk"><p class="quote" style="color:#fff">„Verständnis haben heißt nicht, einverstanden zu sein.“</p><p style="color:#EDE5FA">Viele Führungskräfte befürchten, durch Zuhören weich zu wirken. Das Gegenteil ist der Fall: Wer versteht, kann klarer entscheiden.</p></div>
   <h3 class="sec">Gefühle sind Informationen</h3>
   <div class="card"><p>Welche Gefühle sind bei dir im Spiel? Sie zeigen, was dir wichtig ist.</p>
     <ul class="clean"><li><b>Wut:</b> verletzte Werte und Grenzen</li><li><b>Angst:</b> Bedürfnis nach Sicherheit</li><li><b>Trauer:</b> Enttäuschung, etwas loslassen müssen</li><li><b>Scham:</b> Selbstwert und Zugehörigkeit</li><li><b>Freude:</b> was dich lebendig macht, eine Kraftquelle</li></ul></div>
@@ -731,7 +731,7 @@
 
 <!-- DANACH -->
 <section class="page" id="p-danach">
-  <div class="hero" style="background-image:url('bilder/danach.jpg');--img:url('bilder/danach.jpg')"><div class="in"><span class="eyebrow">Für dich</span><h2>Nach dem Training</h2><p>Deine ersten 30 Tage. Hake ab, was du erledigt hast.</p></div></div>
+  <div class="hero" style="background-image:url('bilder/danach.jpg');--img:url('bilder/danach.jpg')"><div class="in"><span class="eyebrow">Für dich</span><h2>Nach dem Training</h2><p>Deine nächsten 30 Tage. Hake ab, was du erledigt hast.</p></div></div>
   <div class="card" id="checklist"></div>
   <div class="card lav"><h3>Du musst nicht alles sofort können</h3><p>Führung lernst du in der Praxis, nicht im Seminar. Nimm dir jede Woche einen Punkt vor. Und sprich mit deiner Führungskraft oder mit jemandem aus dieser Gruppe, wenn du nicht weiterkommst.</p></div>
   <div class="card"><div class="trainer"><img src="bilder/susanne.jpg" alt="Susanne Tours"><div><b>Fragen oder ein Anliegen?</b><br><span style="color:var(--ink-soft);font-size:14.5px">Schreib mir gern über meine Website.</span><br><a href="https://susannetours.com" target="_blank" rel="noopener" style="font-size:14.5px;font-weight:700">susannetours.com</a></div></div></div>

diff --git a/src/app.js b/src/app.js
@@ -163,7 +163,7 @@ $('#sentences').addEventListener('click',e=>{ const b=e.target.closest('[data-co
 /* ---------- Nach dem Training ---------- */
 const WEEKS=[["e1","Woche 1","Mit deiner eigenen Führungskraft klären: Ziele, Spielraum, Entscheidungen."],["e2","Woche 1","Die Alltagsfragen deines Teams beantworten: Urlaub, Homeoffice, Erreichbarkeit."],["e3","Woche 2","Erwartungsgespräche führen, im Team oder einzeln."],["e4","Woche 2","Deinen Führungskorridor im Team vorstellen."],["e5","Woche 3","Regelmäßige Einzelgespräche einplanen und das erste führen."],["e6","Woche 3","Das aufgeschobene Gespräch führen, mit deinem Gesprächsplan."],["e7","Woche 4","Deine Matrix noch einmal anschauen: Wer hat sich bewegt?"],["e8","Woche 4","Deinem Transfer-Buddy schreiben: Was hat geklappt, was nicht?"]];
 const wk = S.weeks || (S.weeks = {});
-$('#checklist').innerHTML = `<h3>Deine ersten 30 Tage</h3>` + WEEKS.map(([k,w,t])=>`<label class="check"><input type="checkbox" data-week="${k}" ${wk[k]?'checked':''}><span><b>${w}:</b> ${t}</span></label>`).join('');
+$('#checklist').innerHTML = `<h3>Deine nächsten 30 Tage</h3>` + WEEKS.map(([k,w,t])=>`<label class="check"><input type="checkbox" data-week="${k}" ${wk[k]?'checked':''}><span><b>${w}:</b> ${t}</span></label>`).join('');
 $('#checklist').querySelectorAll('[data-week]').forEach(c=>c.addEventListener('change',()=>{ wk[c.dataset.week]=c.checked; save(); }));
 
 /* ---------- Folien ---------- */
